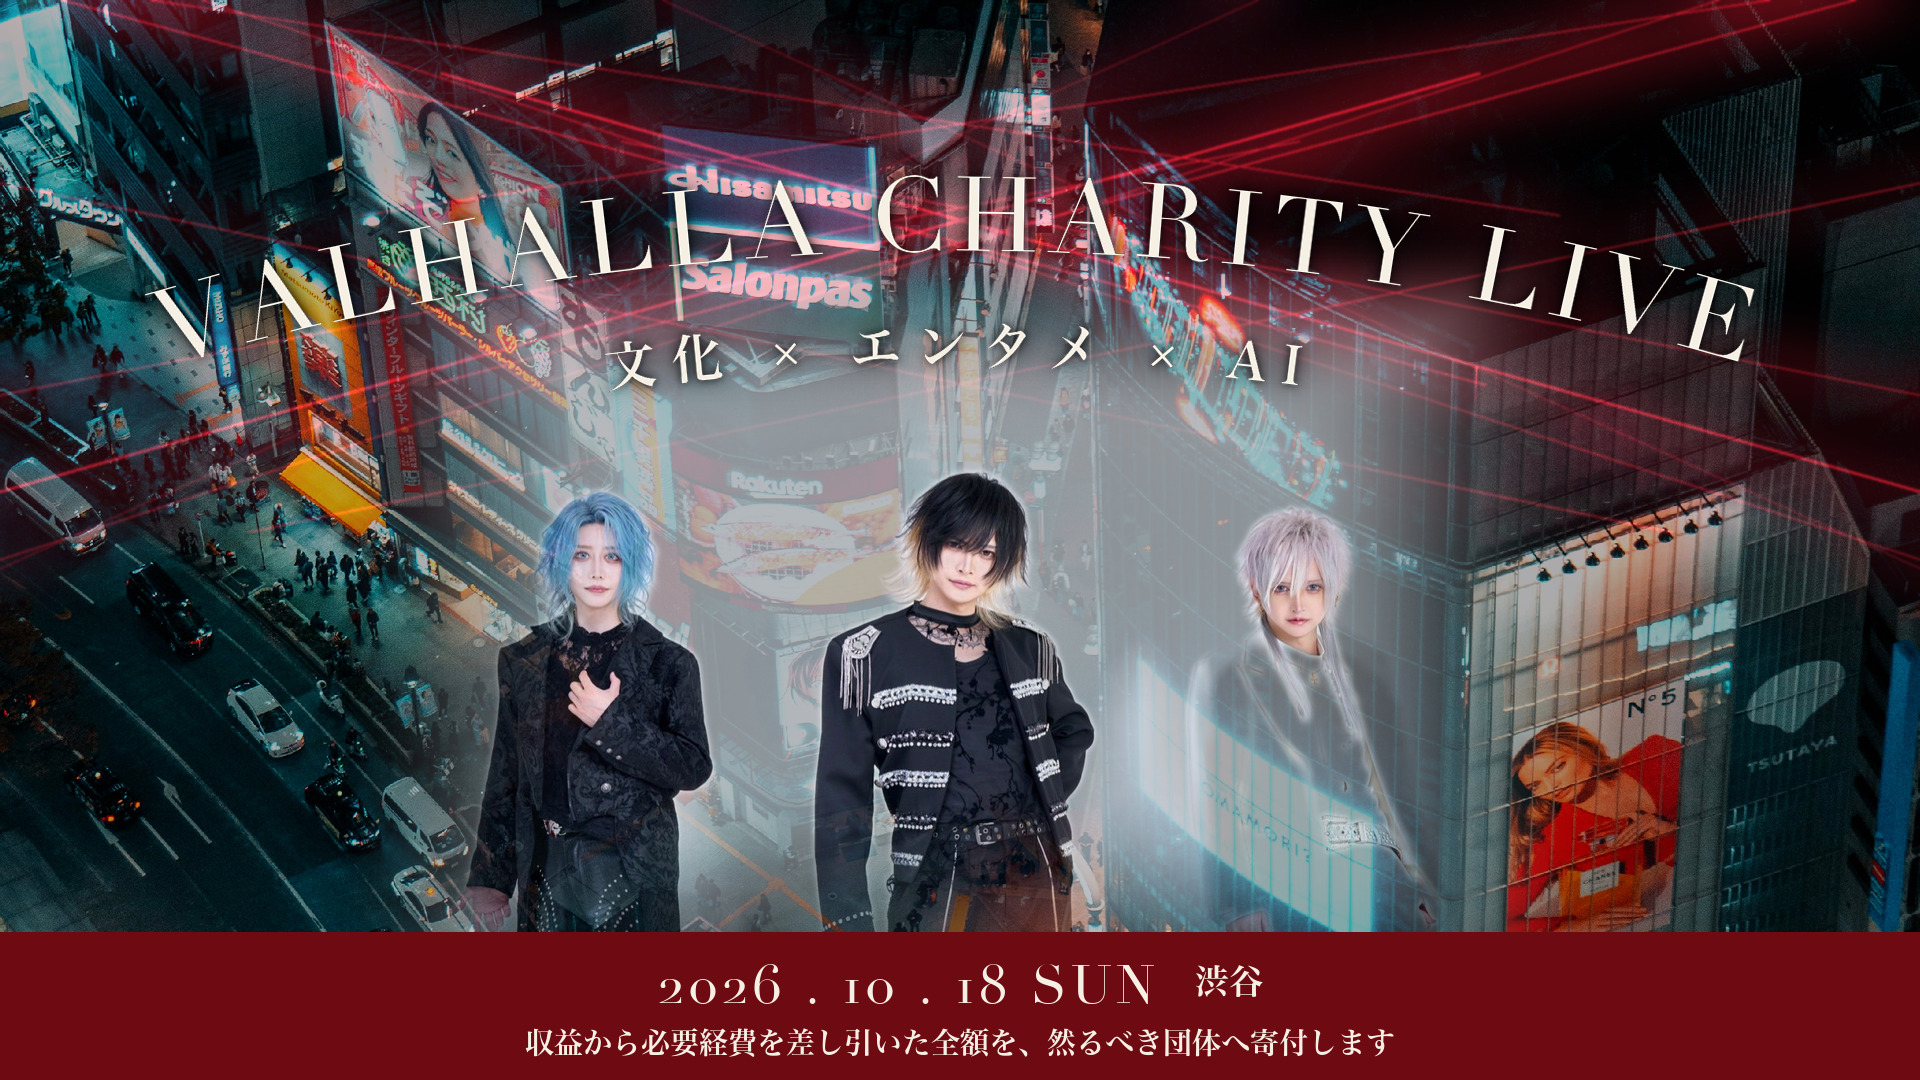
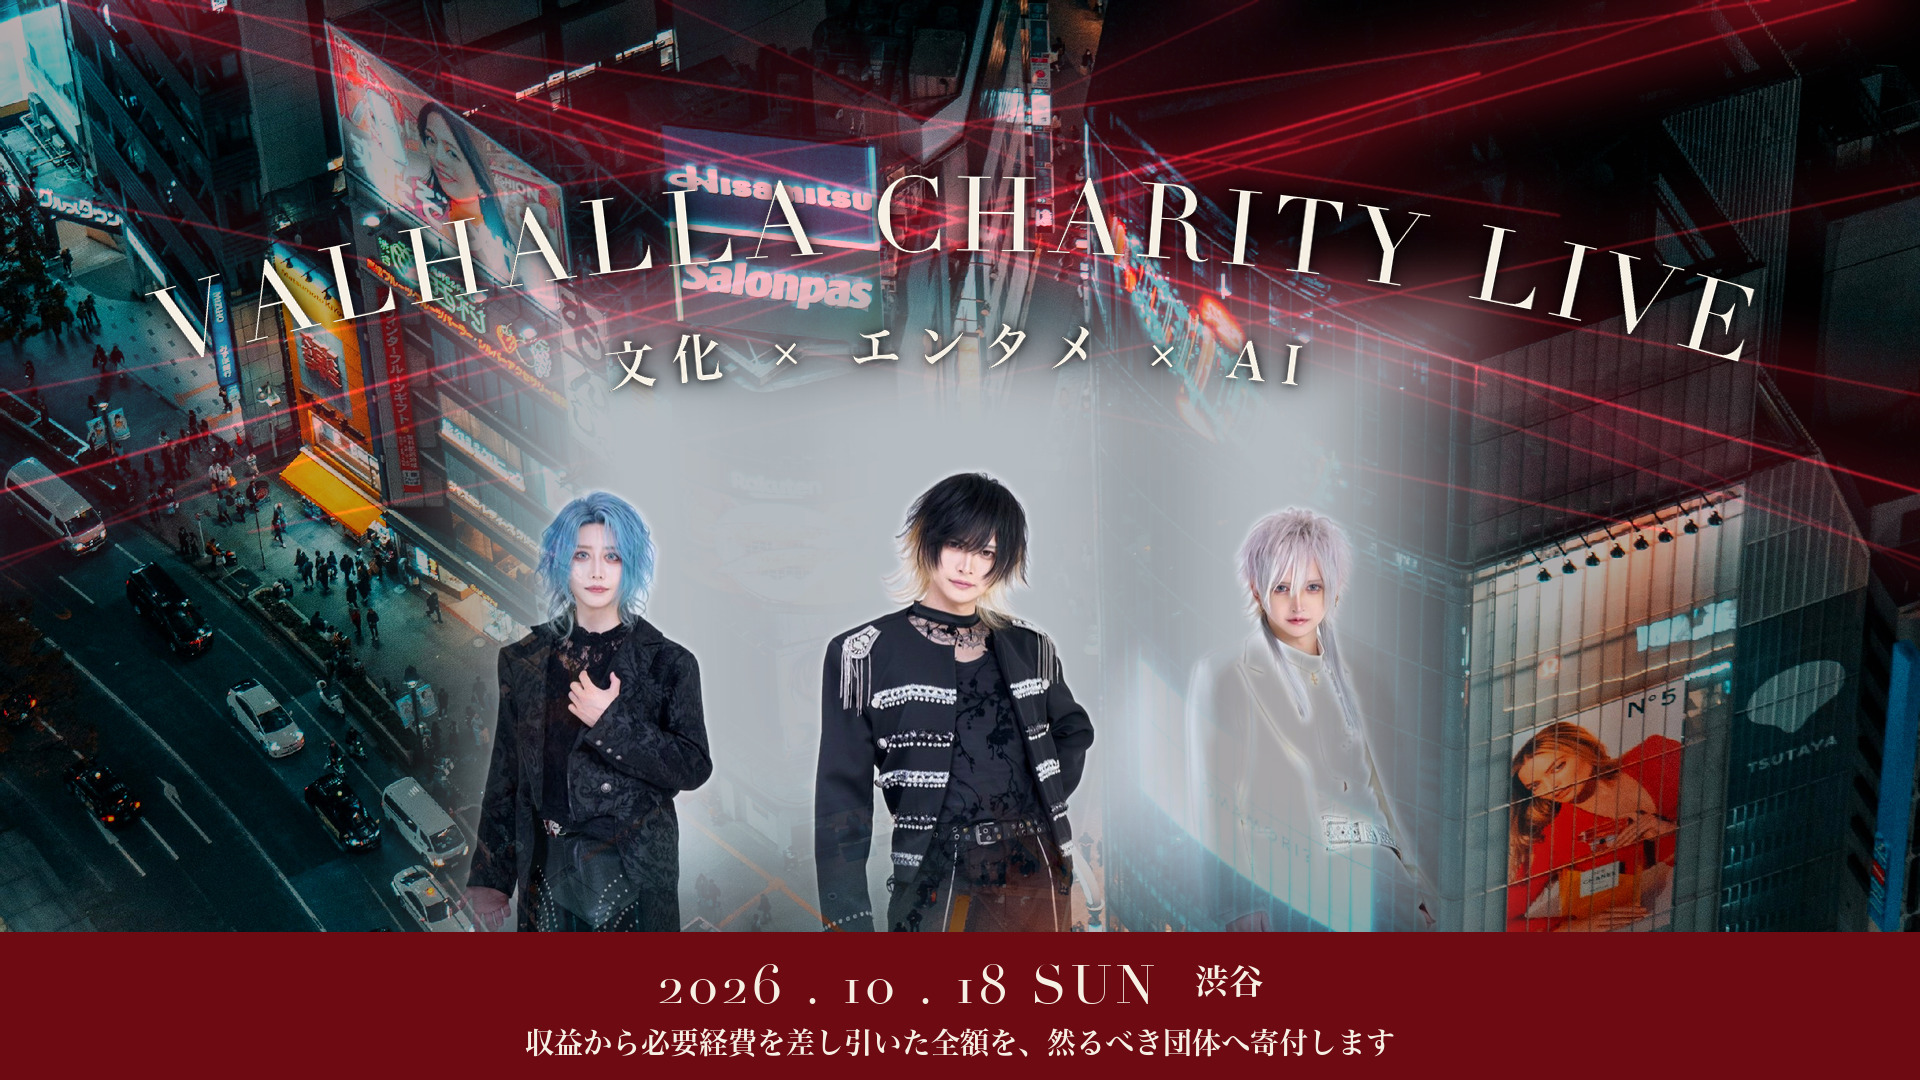
charity: stop the transparency reaching RAY's white suit
Fading by brightness alone could never spare him -- his suit is lighter
than the backdrop it was shot against. So the fade is now masked by
position as well: the three columns the members stand in are protected
outright, and only the empty studio white either side of them dissolves
into the city. He comes back solid, and the background still opens up
where nothing is standing.

Changed region(s): [[0.25, 0.3361, 0.5938, 0.7944], [0.625, 0.3056, 0.75, 0.8556]]

diff --git a/assets/charity/create_flyer_wide.py b/assets/charity/create_flyer_wide.py
@@ -30,6 +30,9 @@ DARK_CRIMSON = (142, 16, 25)
 DEEPEST_CRIMSON = (110, 10, 18)
 CREAM = (245, 239, 228)
 
+# 3人が元写真（幅1600）で占める範囲。ここは透過をかけずに守る。
+PEOPLE_X = ((120, 545), (560, 1020), (1060, 1550))
+
 MINCHO = "/System/Library/Fonts/ヒラギノ明朝 ProN.ttc"
 MINCHO_W6 = 2
 DIDOT = "/System/Library/Fonts/Supplemental/Didot.ttc"
@@ -130,8 +133,17 @@ def members_panel() -> Image.Image:
     # 縁のフェードに加えて、**明るい画素ほど透明にする**。
     # 白ホリゾントの白が半透明になって渋谷が透け、人物のまわりに
     # 白い霞が残らない。暗い衣装や髪はそのまま不透明で残る。
-    # 透過が強すぎると白衣装の人まで消えるので、控えめにする
-    see_through = weight.point(lambda v: 255 - round(v * 0.34))
+    # 明るさだけで透過をかけると、白衣装の人が背景と一緒に消える。
+    # そこで**人物が立っている列は透過をかけない**保護マスクを作り、
+    # 3人の外側（何も写っていない白ホリゾント）だけを透けさせる。
+    protect = Image.new("L", rgb.size, 0)
+    pd = ImageDraw.Draw(protect)
+    sx = rgb.size[0] / 1600
+    for x0, x1 in PEOPLE_X:
+        pd.rectangle((x0 * sx, 0, x1 * sx, rgb.size[1]), fill=255)
+    protect = protect.filter(ImageFilter.GaussianBlur(46))   # 境目をなじませる
+    fade = ImageChops.multiply(weight, ImageChops.invert(protect))
+    see_through = fade.point(lambda v: 255 - round(v * 0.88))
     alpha = ImageChops.multiply(mask.filter(ImageFilter.GaussianBlur(12)), see_through)
     panel.putalpha(alpha)
     return panel
